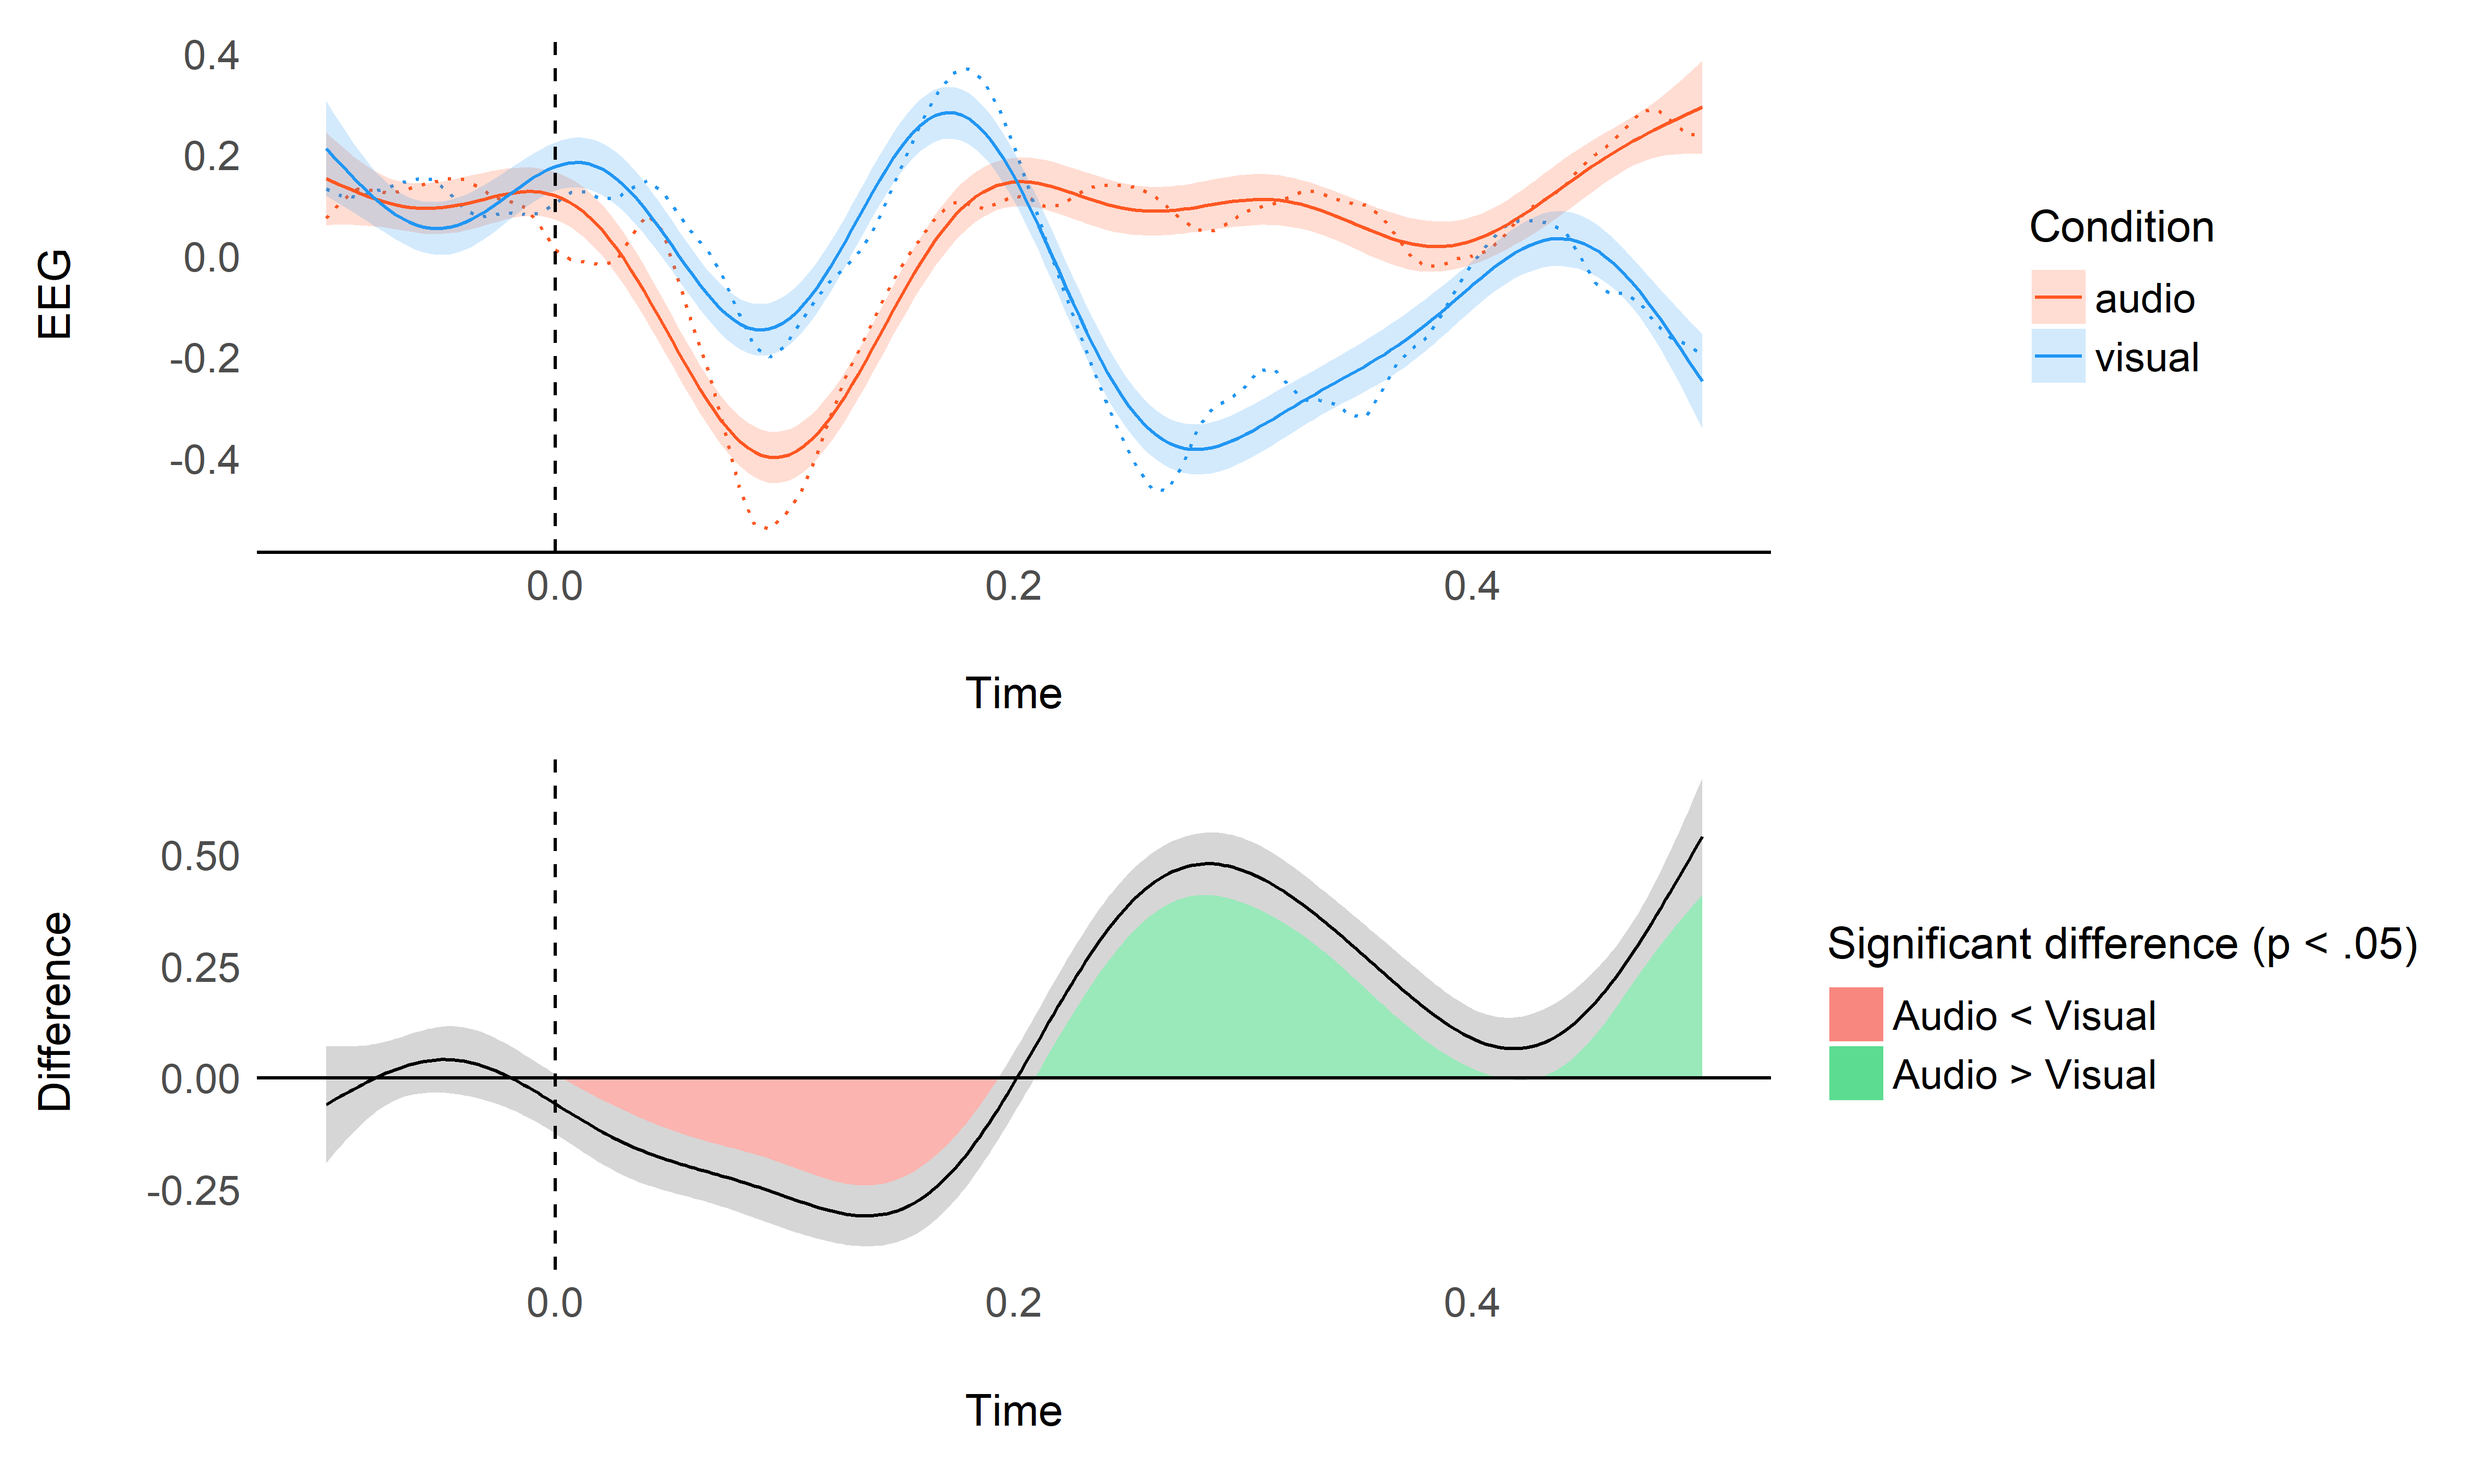
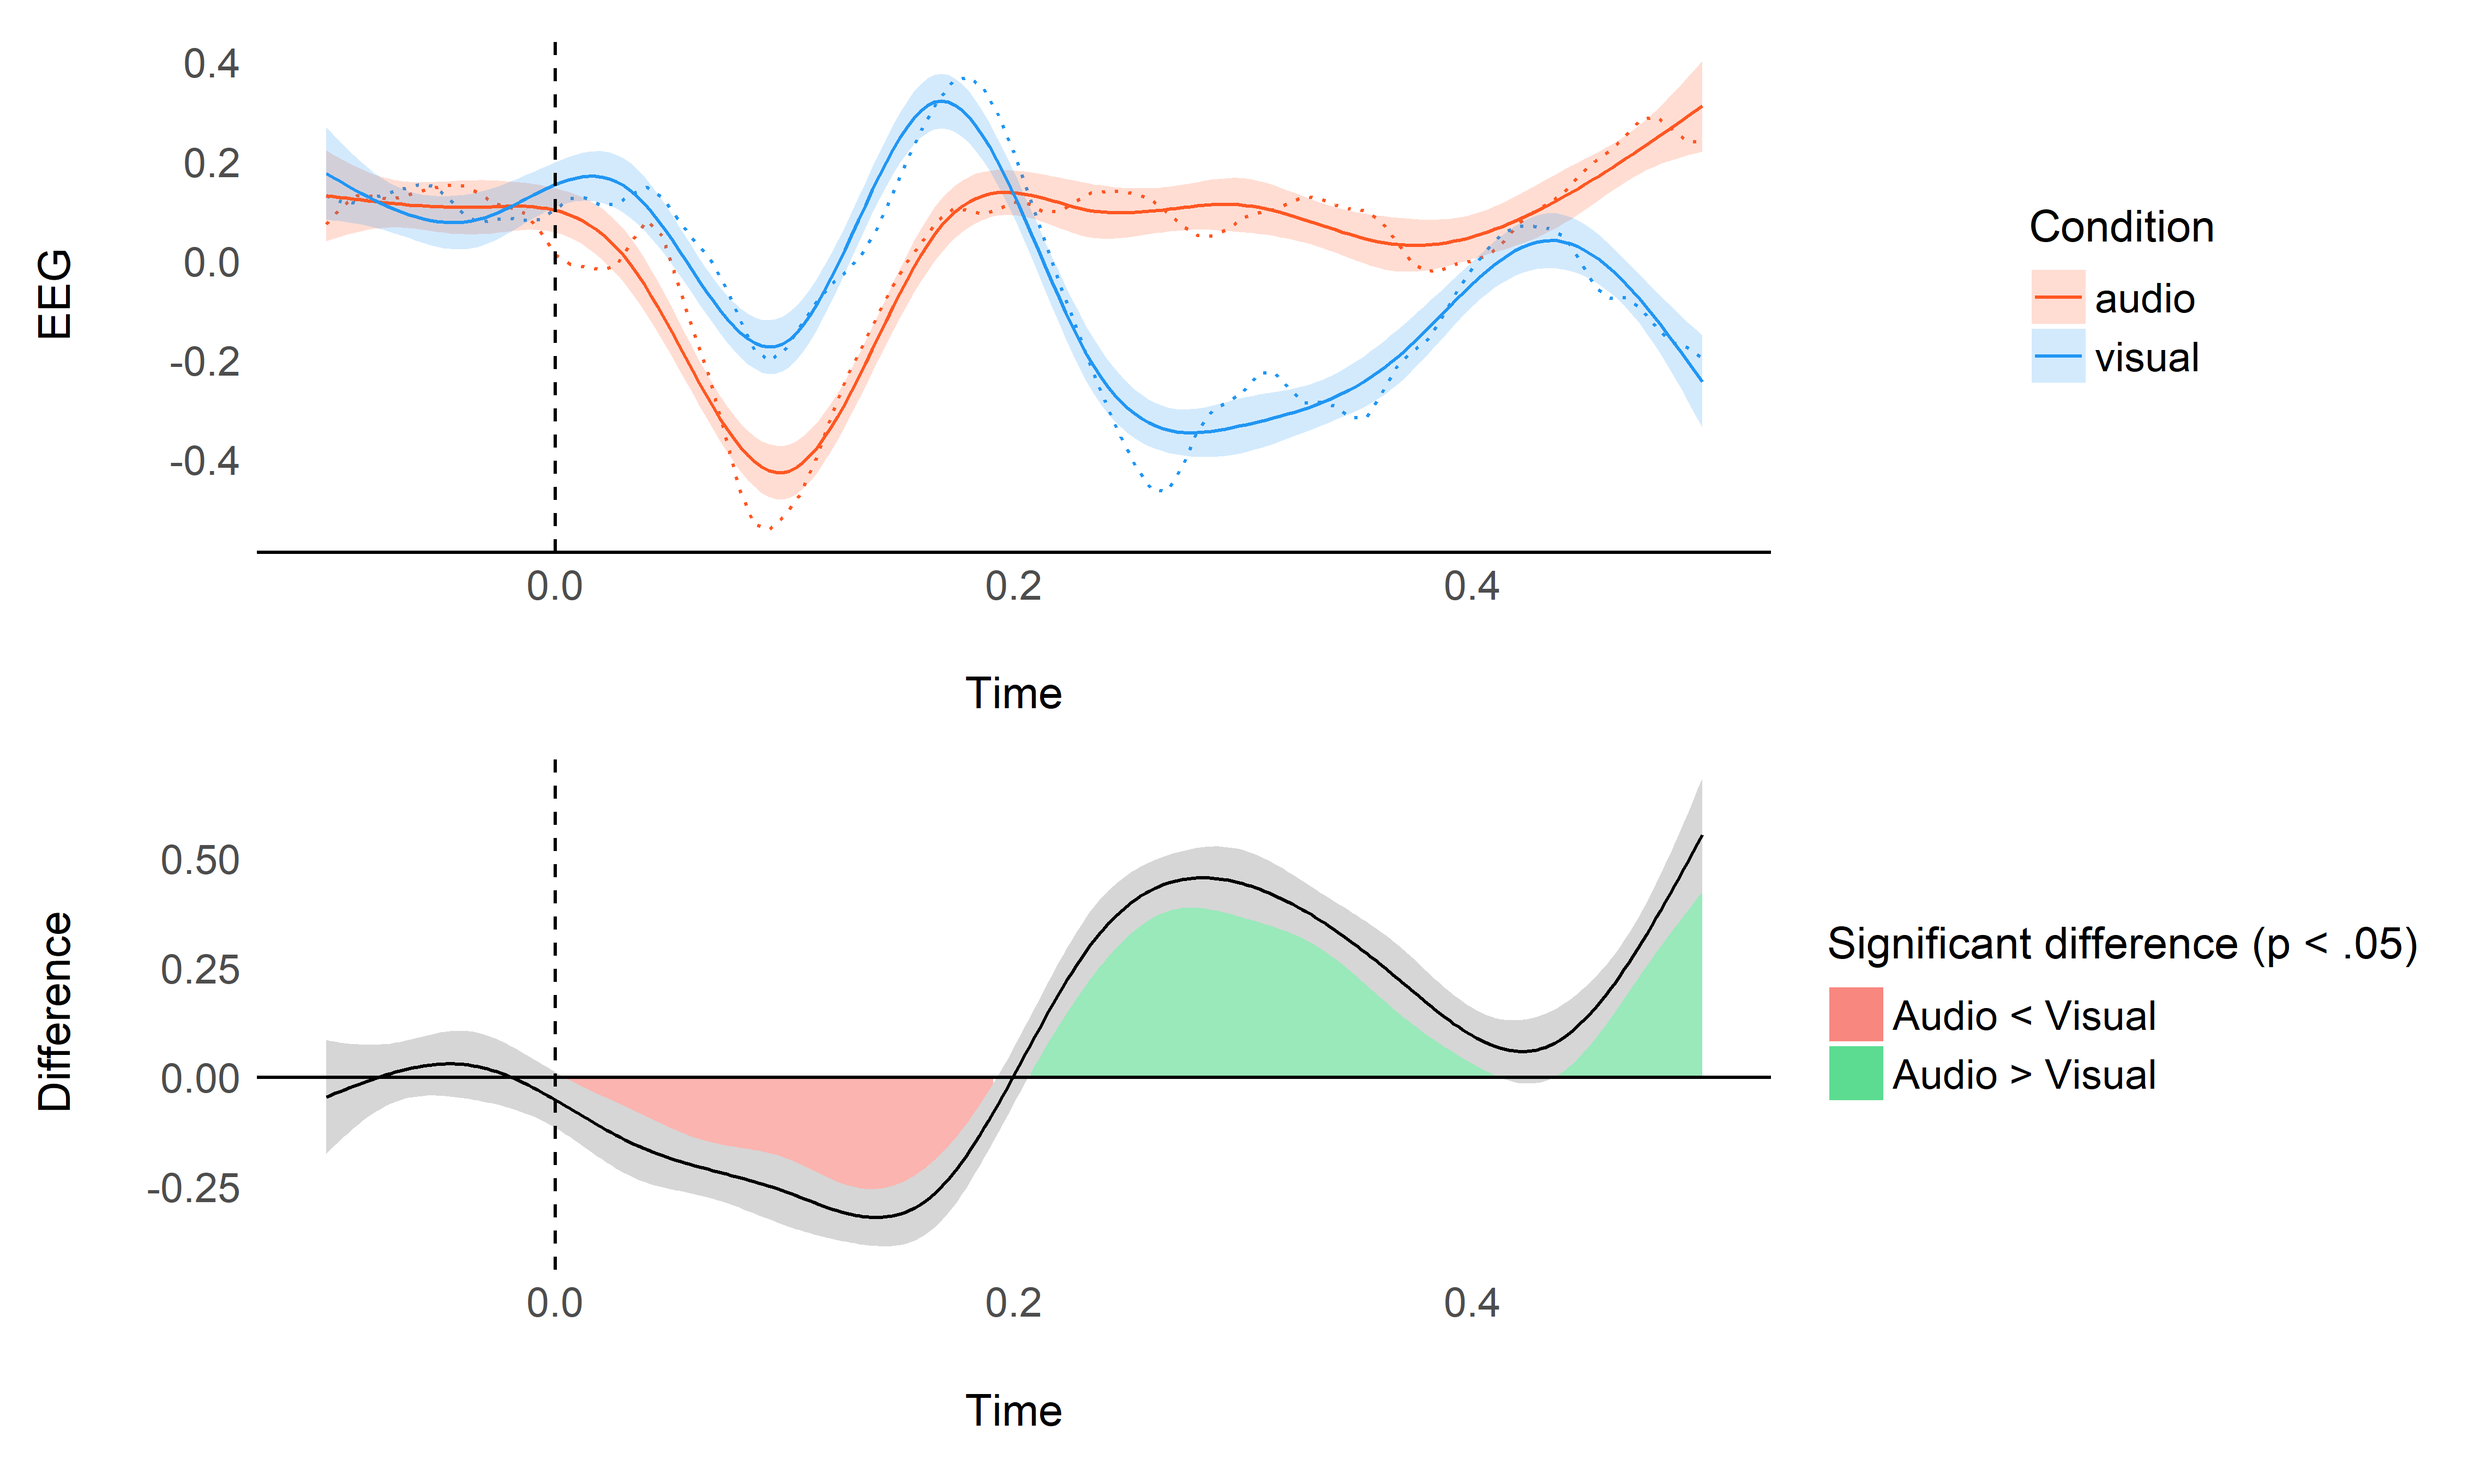
I fell in love with mgcv R package for GAMs
so powerful :heartbeat:

diff --git a/studies/erp_gam/README.md b/studies/erp_gam/README.md
@@ -95,20 +95,24 @@ fig, (ax0, ax1, ax2) = plt.subplots(nrows=3, ncols=1, sharex=True)
 
 times = epochs.times
 ax0.axvline(x=0, linestyle="--", color="black")
+## <matplotlib.lines.Line2D object at 0x00000000C7AE7640>
 ax0.plot(times, np.mean(condition1, axis=0), label="Audio")
+## [<matplotlib.lines.Line2D object at 0x00000000C7AF2D30>]
 ax0.plot(times, np.mean(condition2, axis=0), label="Visual")
+## [<matplotlib.lines.Line2D object at 0x00000000C7AF2F40>]
 ax0.legend(loc="upper right")
+## <matplotlib.legend.Legend object at 0x00000000C7AF2EE0>
 ax0.set_ylabel("uV")
 
 # Difference
 ax1.axvline(x=0, linestyle="--", color="black")
 ax1.plot(times, condition1.mean(axis=0) - condition2.mean(axis=0))
+## [<matplotlib.lines.Line2D object at 0x00000000C7B08B20>]
 ax1.axhline(y=0, linestyle="--", color="black")
-## <matplotlib.lines.Line2D object at 0x00000000BFB5C490>
+## <matplotlib.lines.Line2D object at 0x00000000C7B08CD0>
 ax1.set_ylabel("Difference")
 
 # T-values
-## Text(0, 0.5, 'Difference')
 ax2.axvline(x=0, linestyle="--", color="black")
 h = None
 for i, c in enumerate(clusters):
@@ -123,12 +127,16 @@ for i, c in enumerate(clusters):
                     times[c.stop - 1],
                     color=(0.3, 0.3, 0.3),
                     alpha=0.3)
+## <matplotlib.patches.Polygon object at 0x00000000C7B18550>
+## <matplotlib.patches.Polygon object at 0x00000000C7B18BE0>
 hf = ax2.plot(times, t_vals, 'g')
 if h is not None:
     plt.legend((h, ), ('cluster p-value < 0.05', ))
-## <matplotlib.legend.Legend object at 0x00000000BFB5CF10>
+## <matplotlib.legend.Legend object at 0x00000000C7B18D00>
 plt.xlabel("time (ms)")
+## Text(0.5, 0, 'time (ms)')
 plt.ylabel("t-values")
+## Text(0, 0.5, 't-values')
 plt.savefig("figures/fig2.png")
 plt.clf()
 ```
@@ -236,10 +244,13 @@ difference between the two conditions.
 
 ### General Additive Model (GAM)
 
+Fit a GAM with cubic splines using the `bam()` function that is
+optimized for very large datasets.
+
 ``` r
 library(mgcv)
 
-model <- mgcv::gam(EEG ~ Condition + s(Time, by = Condition), data=data, method="REML")
+model <- mgcv::bam(EEG ~ Condition + s(Time, by = Condition, bs="cr"), data=data)
 ```
 
 ``` r
@@ -248,26 +259,36 @@ plot_model(model, data)
 
 ![](../../studies/erp_gam/figures/unnamed-chunk-12-1.png)<!-- -->
 
-It is possible to increase the number of degrees of freedom.
+As we can see, though it gives decent results, it seems like the default
+smoothing is a bit too strong. This is an issue as our process of
+interest (event-related potentials) are known to be of very high
+frequency with sharp changes.
+
+Fortunately, it is possible to decrease the smoothness by increasing the
+number of degrees of freedom of the smooth term. We will set the
+dimension *k* to 5% to the length of the epochs, which in our case
+corresponds to `0.05 * 600 ms`.
 
 ``` r
 gam.check(model)
 ## 
-## Method: REML   Optimizer: outer newton
-## full convergence after 7 iterations.
-## Gradient range [-0.00982,0.00773]
-## (score 36811 & scale 0.968).
-## Hessian positive definite, eigenvalue range [3.28,13102].
+## Method: fREML   Optimizer: perf newton
+## full convergence after 8 iterations.
+## Gradient range [-2.92e-07,2.28e-07]
+## (score 36800 & scale 0.967).
+## Hessian positive definite, eigenvalue range [3.3,13102].
 ## Model rank =  20 / 20 
 ## 
 ## Basis dimension (k) checking results. Low p-value (k-index<1) may
 ## indicate that k is too low, especially if edf is close to k'.
 ## 
-##                           k'  edf k-index p-value
-## s(Time):Conditionaudio  9.00 8.65    0.99    0.34
-## s(Time):Conditionvisual 9.00 8.81    0.99    0.41
+##                           k'  edf k-index p-value  
+## s(Time):Conditionaudio  9.00 8.68    0.98   0.040 *
+## s(Time):Conditionvisual 9.00 8.83    0.98   0.065 .
+## ---
+## Signif. codes:  0 '***' 0.001 '**' 0.01 '*' 0.05 '.' 0.1 ' ' 1
 
-model <- mgcv::gam(EEG ~ Condition + s(Time, by = Condition, k = 0.05 * 600), data=data, method="REML")
+model <- mgcv::bam(EEG ~ Condition + s(Time, by = Condition, k = 0.05 * 600, bs="cr"), data=data)
 ```
 
 ``` r
@@ -278,16 +299,37 @@ plot_model(model, data)
 
 ### Using data from all the channels
 
+We will add use the data from all the channels of the cluster by adding
+them as a random factor in the model (random slopes are added for the
+condition factor).
+
 ``` r
 data_long <- data %>%
-  pivot_longer(starts_with("EEG."), names_to="Channel")
+  pivot_longer(starts_with("EEG."), names_to="Channel") %>% 
+  mutate(Channel = as.factor(Channel))
 
-# 
-# model <- lme4::lmer(value ~ Condition * splines::bs(Time, df=0.02 * 700) + (1|Channel), data=data_long)
-# model <- glmmTMB::glmmTMB(value ~ Condition * splines::bs(Time, df=0.02 * 700) + (1|Channel), data=data_long)
+model_full <- mgcv::bam(value ~ Condition + s(Time, by = Condition, k = 0.05 * 600, bs="cr") + s(Condition, Channel, bs='re'), data=data_long)
+
+plot_model(model_full, data)
 ```
 
-Unfortunately, this won’t converge, too much data :(
+![](../../studies/erp_gam/figures/unnamed-chunk-15-1.png)<!-- -->
+
+``` r
+performance::compare_performance(model, model_full)
+## # Comparison of Model Performance Indices
+## 
+## Model      | Type |      AIC |      BIC |   R2 | RMSE | BF
+## ----------------------------------------------------------
+## model      |  bam | 73490.40 | 73777.79 | 0.04 | 0.98 |   
+## model_full |  bam | 7.35e+05 | 7.36e+05 | 0.03 | 0.98 |  0
+```
+
+## Conclusion
+
+GAMs offer a flexible and powerful way to model ERPs. Moreover, these
+models can be extended to include more covariates, hopefully increasing
+the signal to noise ratio.
 
 ## References
 
